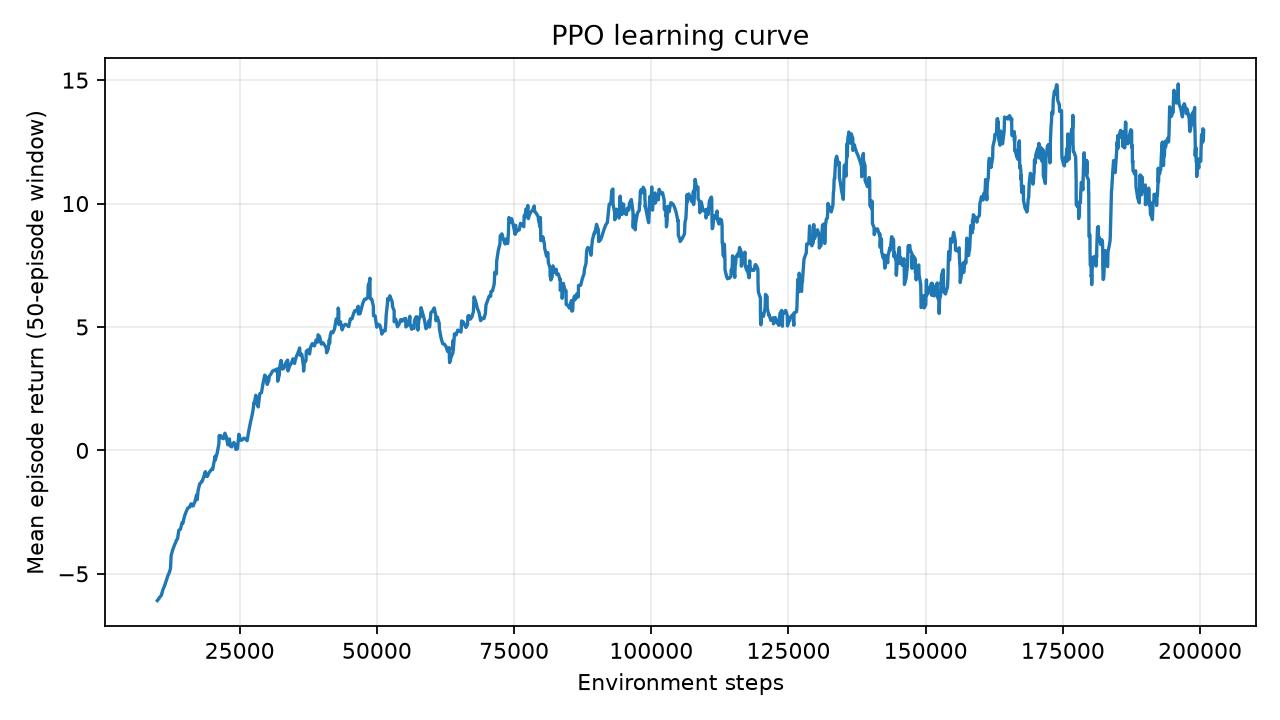
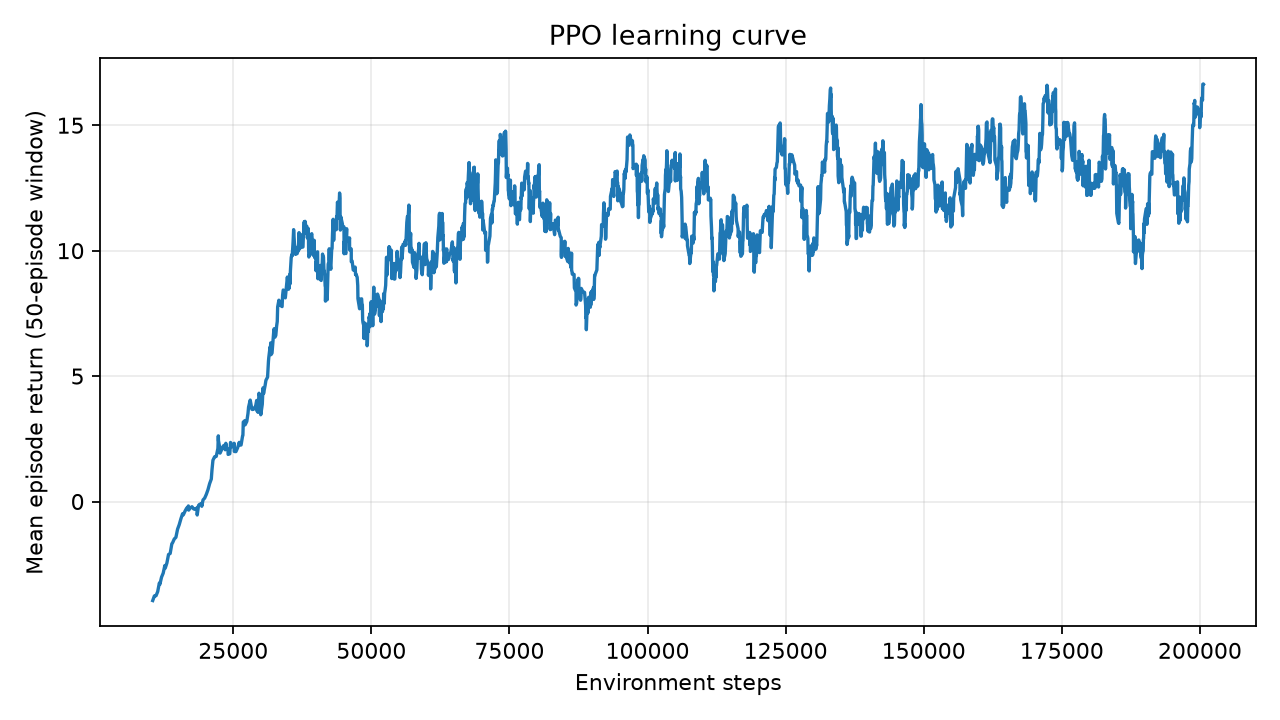
docs: retrain on randomized layouts with fixed-vs-random generalization comparison

diff --git a/docs/benchmarks.md b/docs/benchmarks.md
@@ -57,39 +57,47 @@ hear stated up front:
   essentially unchanged. The batched step matters most when the environment is expensive enough to
   dominate the loop.
 
-## PPO versus random
+## PPO versus random, and layout generalization
 
-Command:
+Obstacle layouts are randomized per episode by default; `--fixed-obstacles` uses a single reference map.
+Commands:
 
 ```bash
 python train/train_ppo.py --steps 200000 --eval-episodes 100
+python train/train_ppo.py --fixed-obstacles --steps 200000 --eval-episodes 100 \
+  --output-dir assets/generated/fixed-map
 ```
 
-Both policies used the same 100 held-out episode seeds starting at 105951.
+All policies used the same 100 held-out episode seeds starting at 105951.
 
 | Policy | Success | Collision | Mean return | Mean episode length |
 |---|---:|---:|---:|---:|
-| PPO | **72%** | 14% | **14.17** | 94.48 |
-| Seeded random | 0% | 52% | -8.25 | 209.19 |
+| PPO — randomized layouts (default) | **66%** | 31% | 11.43 | 51.95 |
+| PPO — fixed reference map | 72% | 14% | 14.17 | 94.48 |
+| Seeded random (randomized layouts) | 0% | 47% | -7.67 | 226.33 |
 
-CPU-only training took 117.4 seconds. The original target of 80% held-out success was not reached in
-this fixed 200k-step run, so no train-to-80 time is claimed. The exact JSON, learning curve, and demo
-GIF are checked into `assets/generated`; the model and TensorBoard event files are reproducible but
-git-ignored to keep the repository small.
+Randomizing the obstacle field per episode costs 6 points of success and roughly doubles the collision
+rate, while the seeded random policy solves neither. Keeping two-thirds of its success on layouts it has
+never seen indicates the policy learned reactive lidar navigation rather than memorizing one map. The
+fixed-map run reproduces the earlier result exactly (72% / 14.17 / 94.48), which also validates that
+seeded training is deterministic. The 80% held-out target was not reached in these fixed 200k-step runs,
+so no train-to-80 time is claimed. The exact JSON, learning curves, and demo GIF are checked into
+`assets/generated`; models and TensorBoard event files are reproducible but git-ignored.
 
 ## Robustness under domain randomization
 
 Command:
 
 ```bash
-python train/train_ppo.py --realism --steps 200000 --eval-episodes 100 \
+python train/train_ppo.py --realism --fixed-obstacles --steps 200000 --eval-episodes 100 \
   --output-dir assets/generated/realism
 ```
 
 Enabling all four realism features at once (sensor noise, actuator limits, a one-step action delay, and
-dynamics randomization) makes the task substantially harder. The same PPO recipe still learns, and the
-resulting policy is scored both under the training perturbations and, over the same seeds, on clean
-dynamics.
+dynamics randomization) makes the task substantially harder. This run holds the layout fixed
+(`--fixed-obstacles`) so the numbers isolate the effect of noise from layout variation. The same PPO
+recipe still learns, and the resulting policy is scored both under the training perturbations and, over
+the same seeds, on clean dynamics.
 
 | Policy | Success | Collision | Mean return | Mean episode length |
 |---|---:|---:|---:|---:|

diff --git a/README.md b/README.md
@@ -15,12 +15,13 @@ Unreal Engine is kept behind a documented backend boundary and remains a stretch
 
 ## Results
 
-On 100 held-out seeds, PPO trained for 200,000 steps reached the goal in **72%** of episodes; a seeded
-random policy reached it in **0%**. PPO's mean return was 14.17 versus -8.25 for random, and it reached
-goals in 94 steps on average versus the random policy's 209. Training took 117 seconds on a CPU-only
-machine. With all four realism features enabled the same recipe still reached 33% success (vs 0% for
-random), and that domain-randomization policy transferred to clean dynamics at 35% — see
-[docs/benchmarks.md](docs/benchmarks.md). The checked-in artifacts are the
+On 100 held-out seeds with randomized obstacle layouts (the default), PPO trained for 200,000 steps
+reached the goal in **66%** of episodes; a seeded random policy reached it in **0%**. On the fixed
+reference map the same recipe reaches **72%** — the small gap (66% vs 72%, with collisions rising from
+14% to 31%) is evidence the policy learned reactive lidar navigation rather than memorizing one layout.
+Training took ~120 seconds on a CPU-only machine. With all four realism features enabled (on the fixed
+map, to isolate noise from layout variation) the recipe still reached 33% success and transferred to
+clean dynamics at 35% — see [docs/benchmarks.md](docs/benchmarks.md). The checked-in artifacts are the
 [learning curve](assets/generated/learning_curve.png) and
 [evaluation data](assets/generated/evaluation.json).
 
@@ -91,7 +92,7 @@ an RL library.
 ## Correctness, safety, and reproducibility
 
 - Gymnasium's checker and Stable-Baselines3's checker run in `pytest` and CI.
-- A seed controls starts, goals, obstacle jitter, lidar noise/dropout, and wheel slip.
+- A seed controls starts, goals, obstacle layouts, lidar noise/dropout, and wheel slip.
 - Non-finite actions become zero and out-of-bounds actions are clamped; `info["action_clipped"]`
   records intervention.
 - Every returned observation is checked for shape, finiteness, dtype, and bounds.
@@ -108,6 +109,7 @@ Use `NavEnvConfig` to enable features independently:
 from cpp_gym_nav import NavEnv, NavEnvConfig
 
 env = NavEnv(config=NavEnvConfig(
+    random_obstacles=True,  # per-episode layouts (default); False = fixed reference map
     sensor_noise=True,
     actuator_limits=True,
     action_delay=True,
